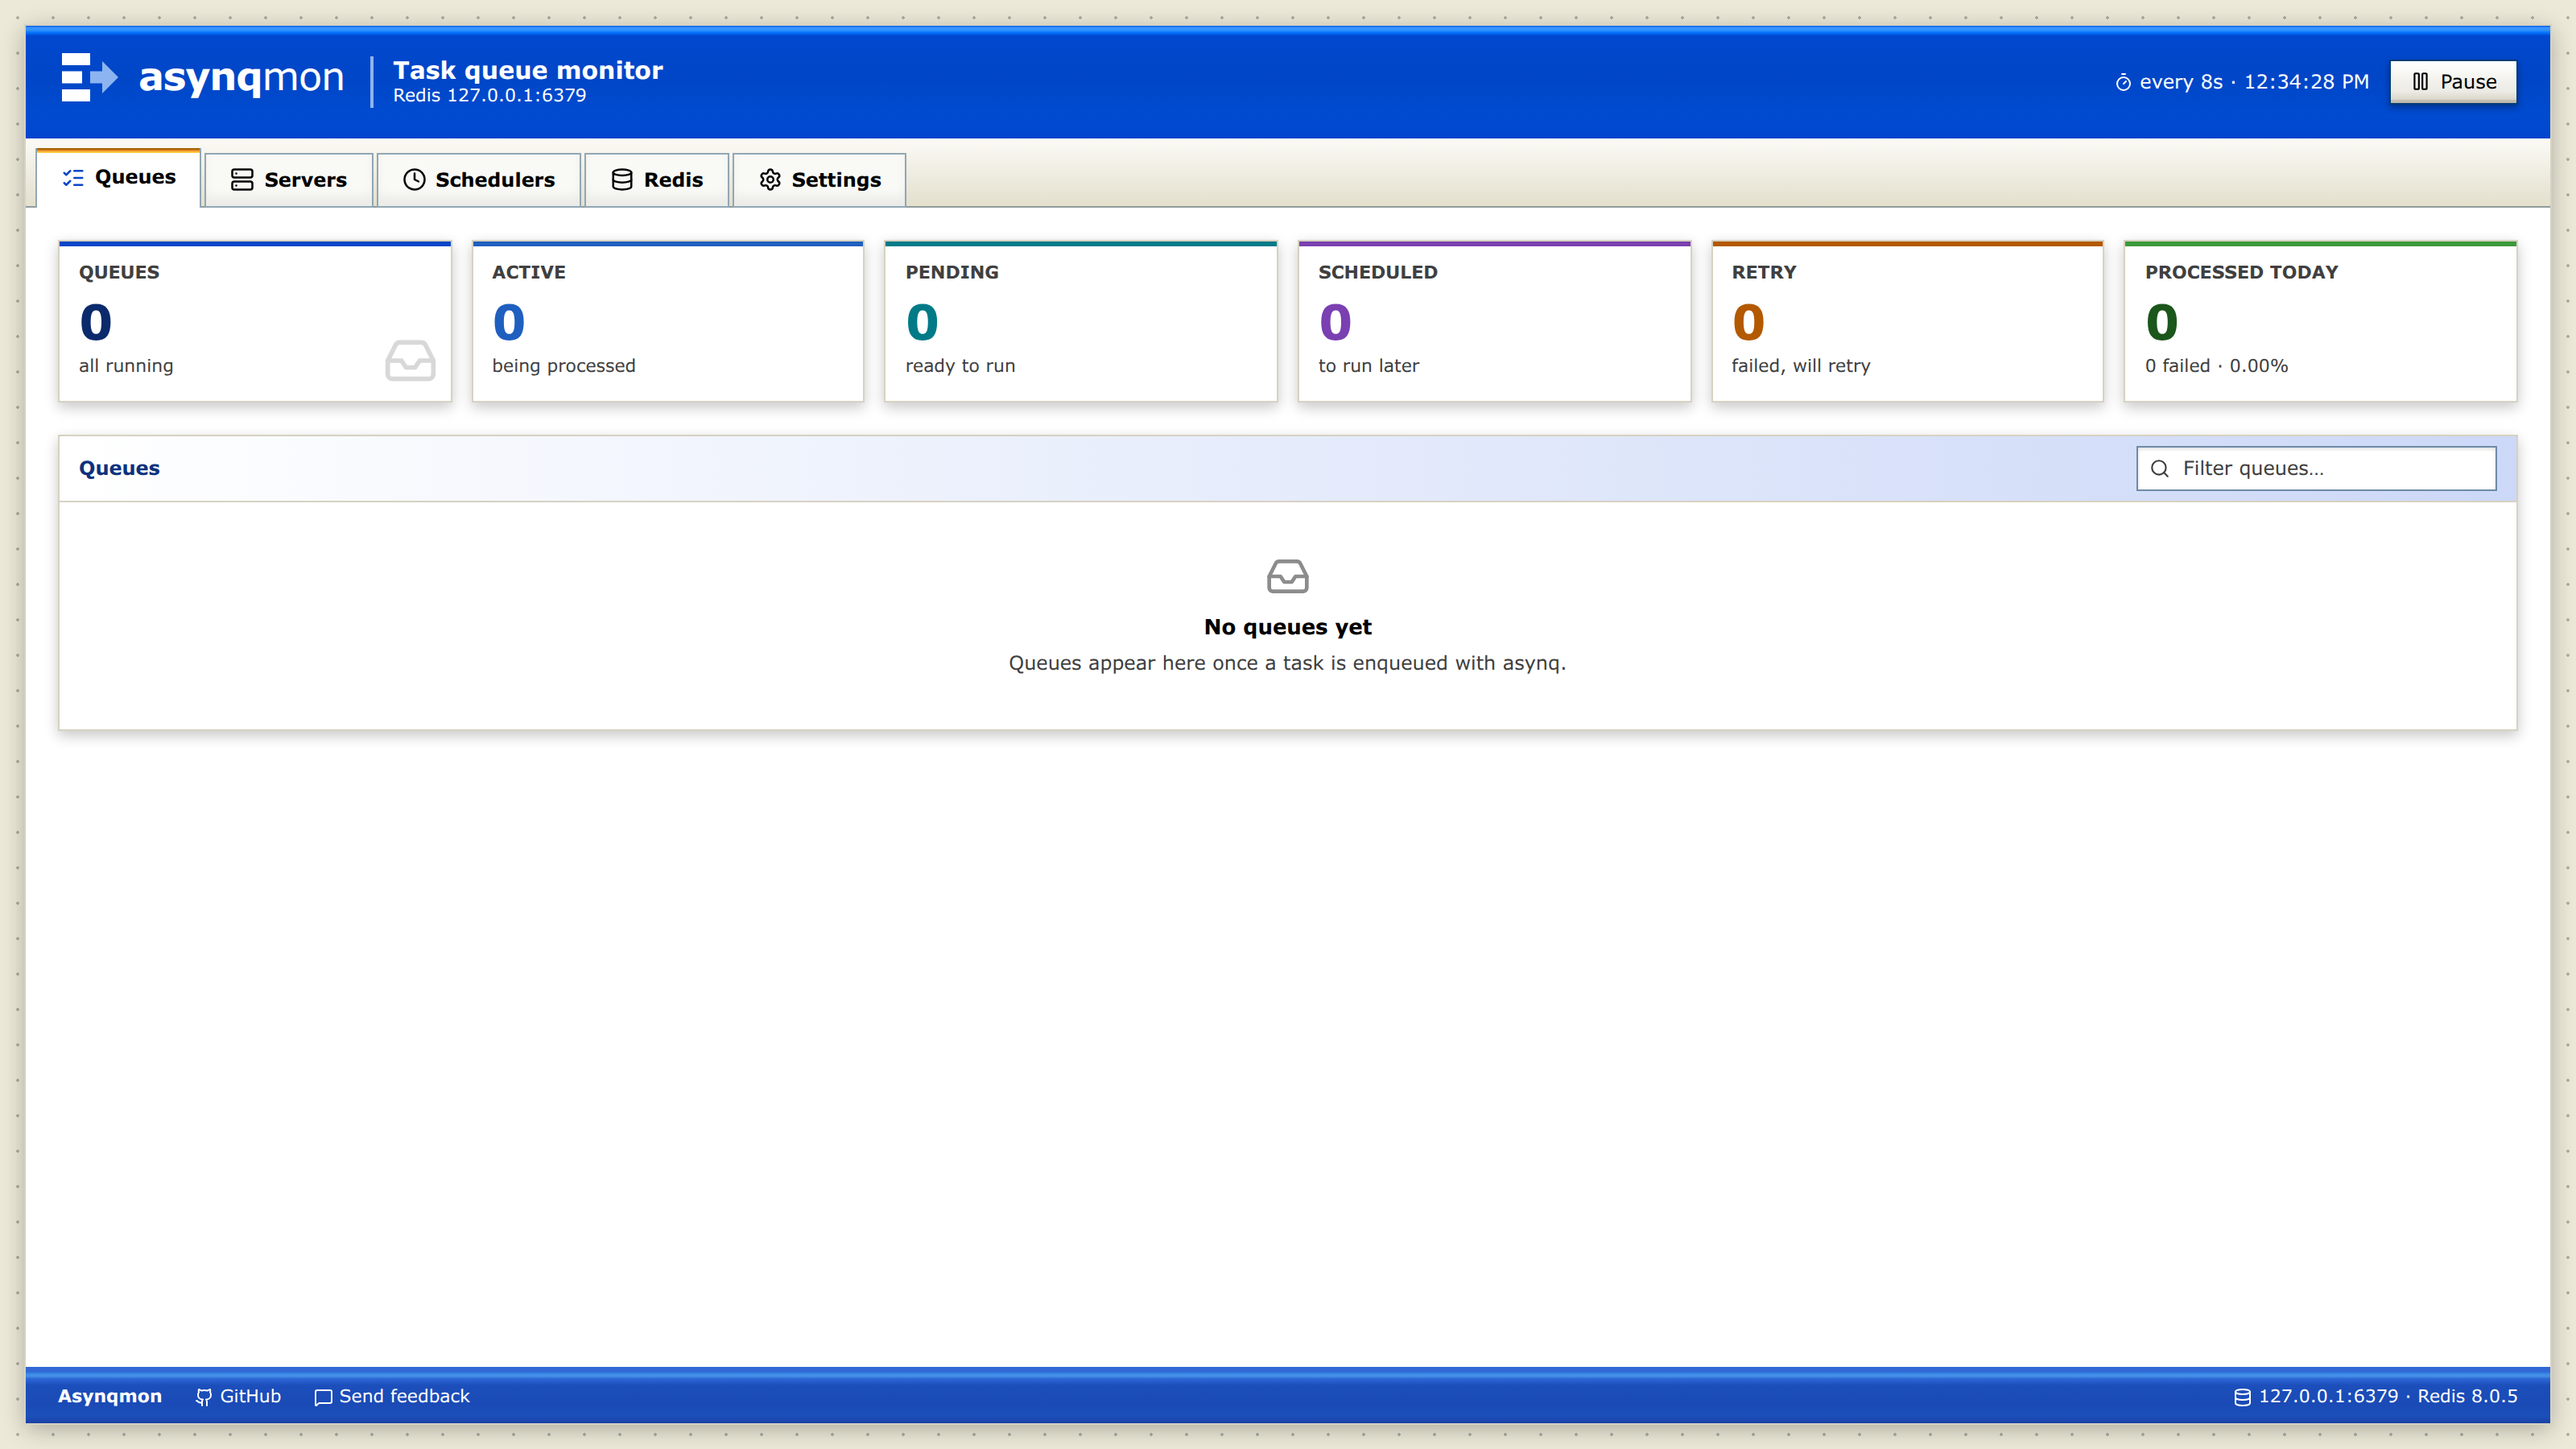
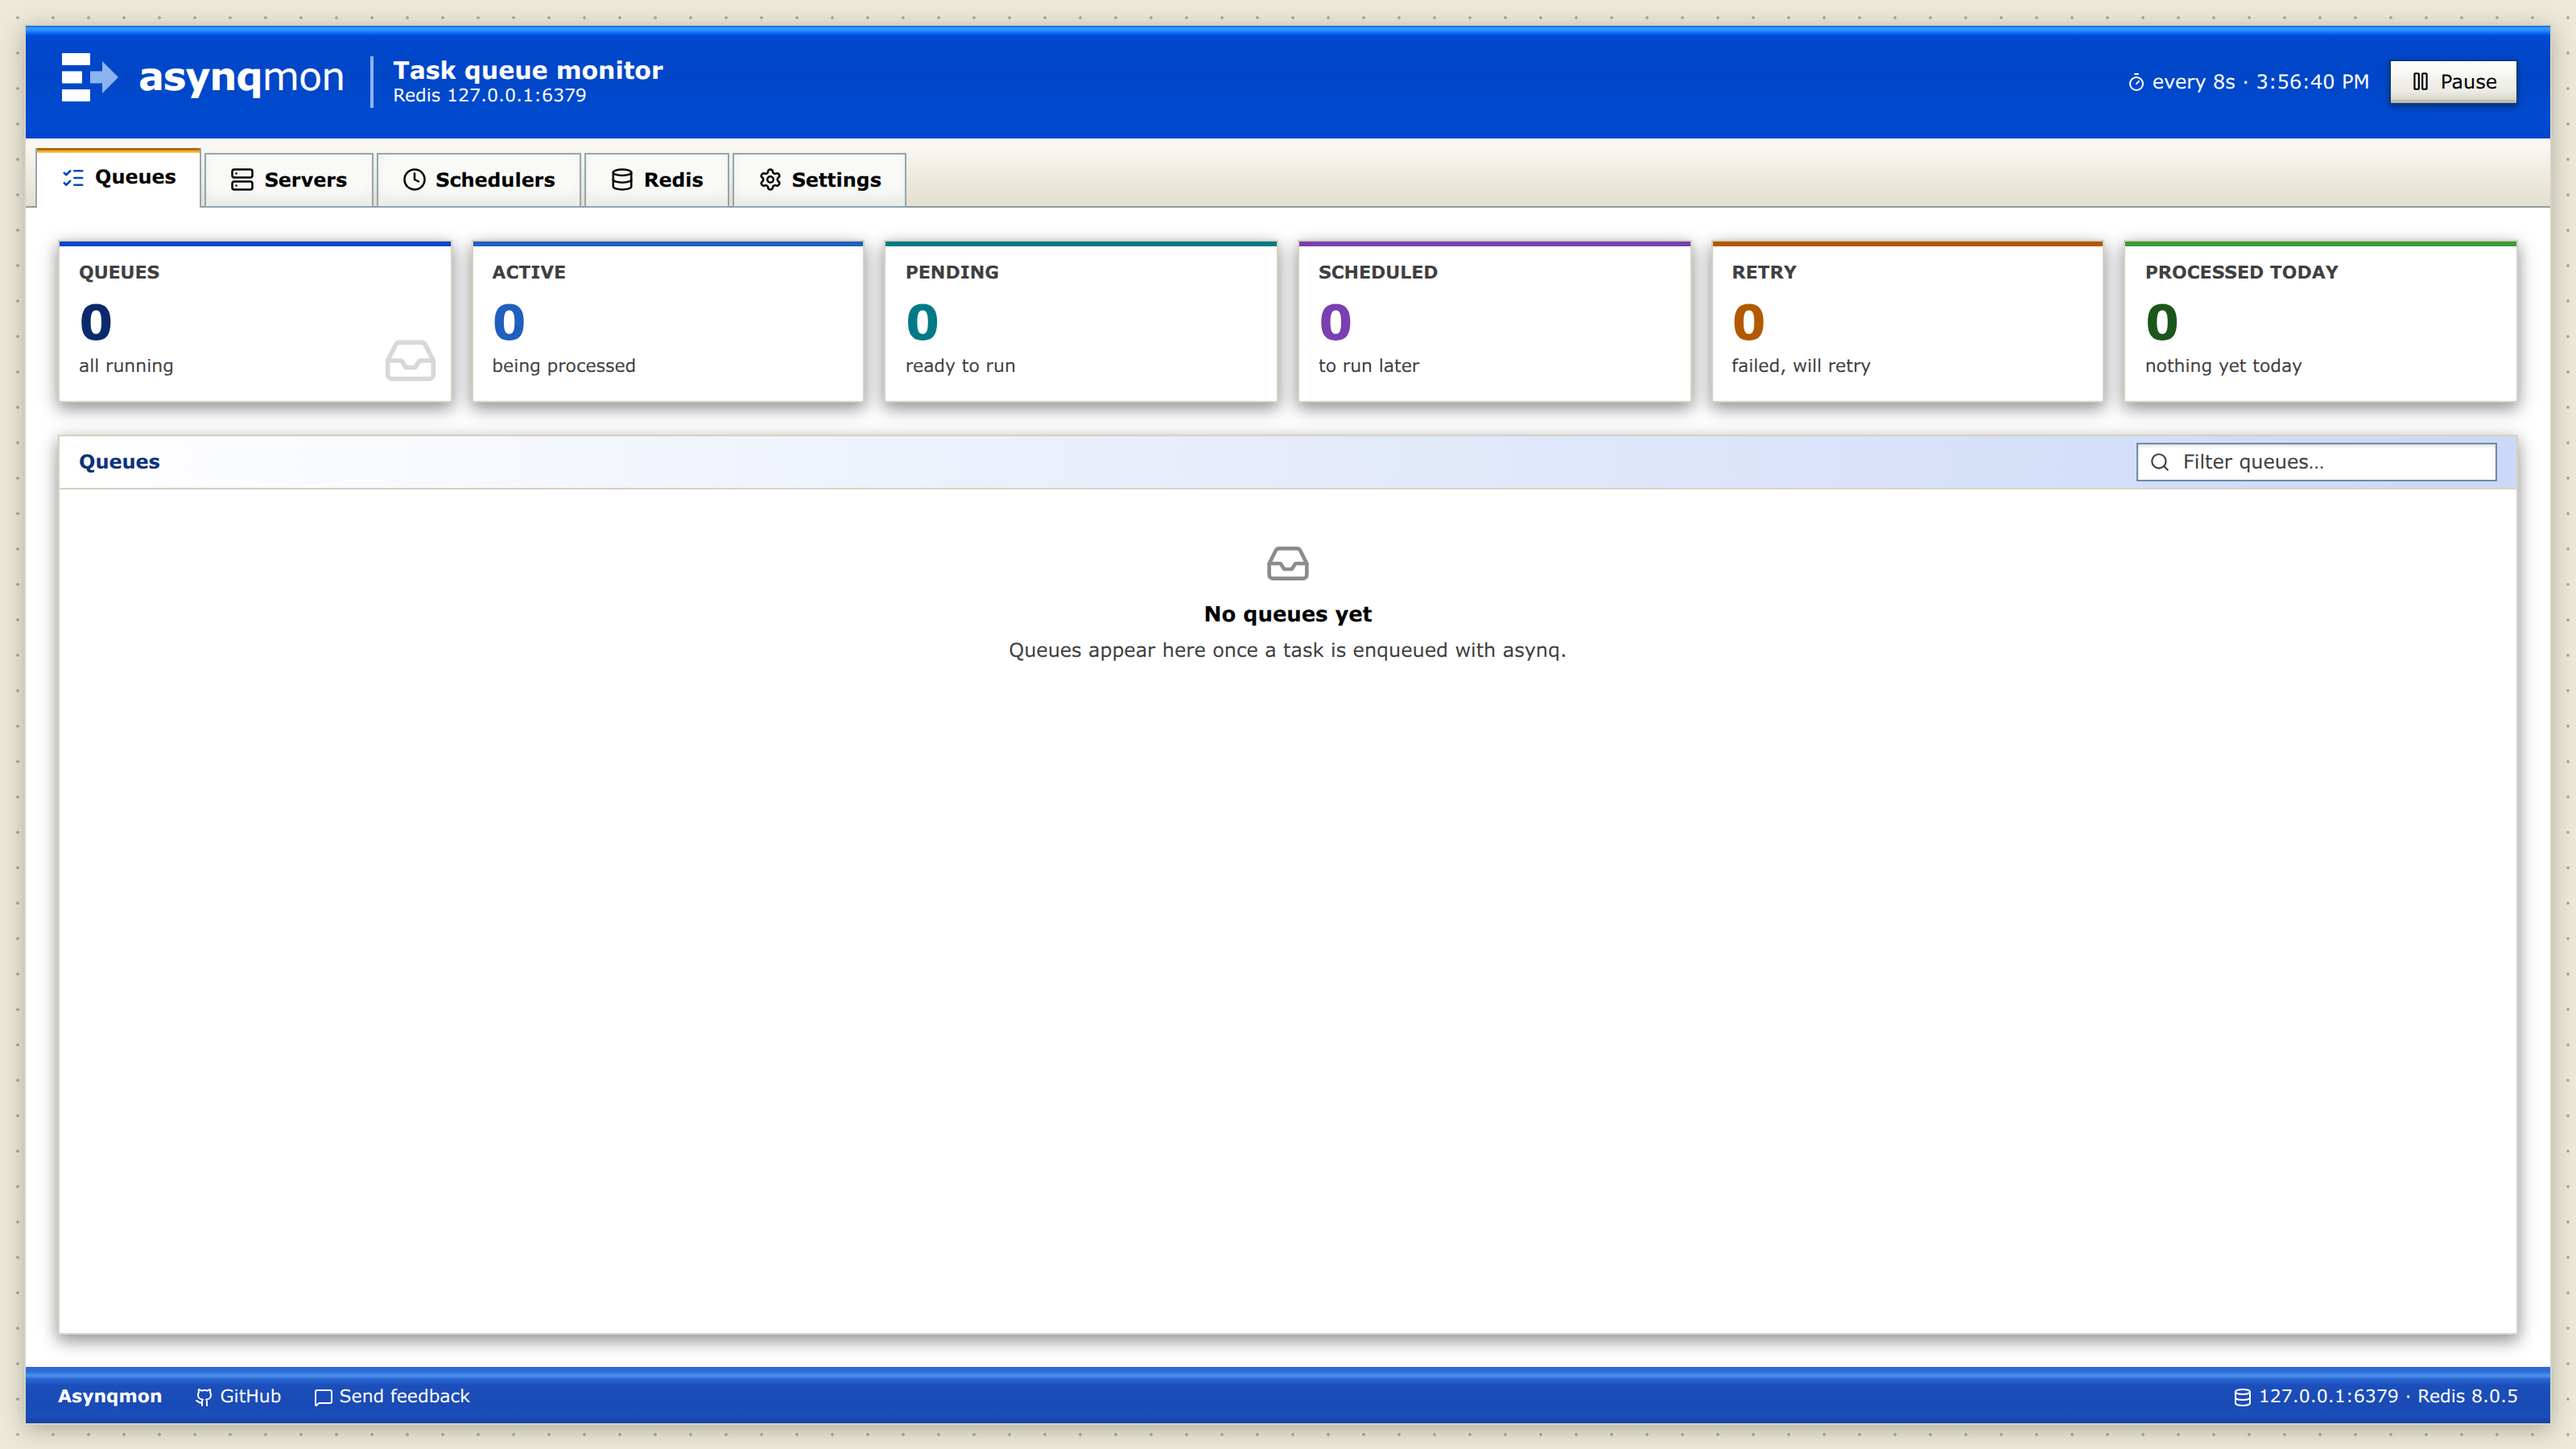
deps: jniltinho/asynqmon v0.8.1 (Redis INFO tabs, pages fit the window, card shadows)

diff --git a/CHANGELOG.md b/CHANGELOG.md
@@ -5,7 +5,9 @@ All notable changes to this project are documented here. The format follows
 
 ## [Unreleased]
 
-—
+### Changed
+- The queue monitor is [jniltinho/asynqmon](https://github.com/jniltinho/asynqmon) v0.8.1: the Redis INFO in a tab per
+  section, pages that fit the window (only lists, tables and charts scroll), card shadows and smoother charts.
 
 ## [0.26.0] — 2026-10-25
 
